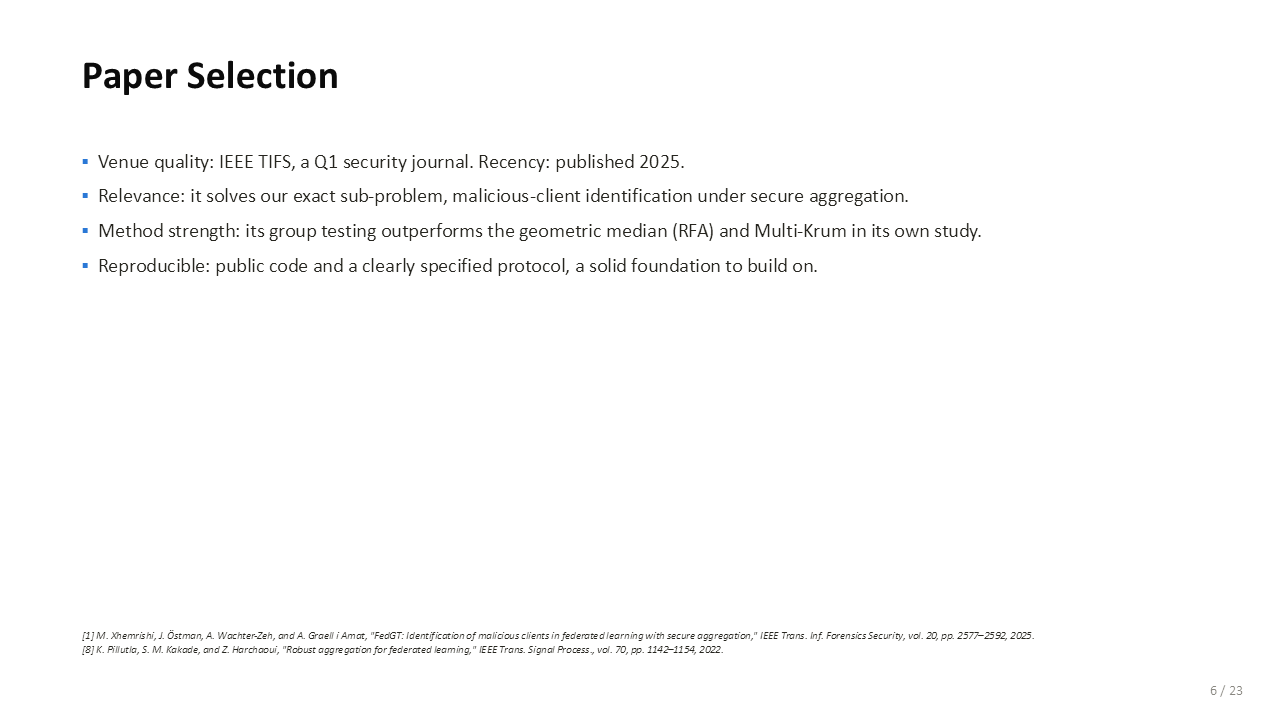
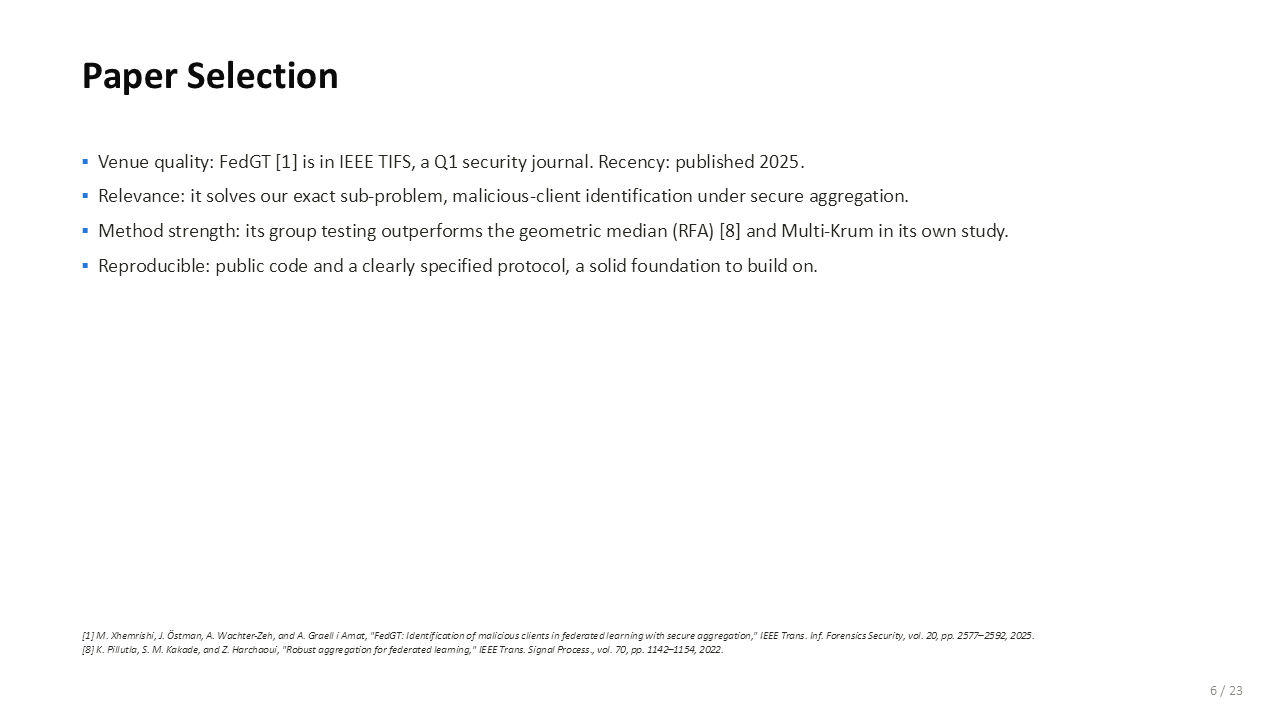
Deck: add in-text [n] citation markers on every slide that carries a reference
Each cited source now appears as a bracketed [n] within a sentence on its slide,
matching the full-form reference in that slide's footnote (verified per-slide).

Changed region(s): [[0.1562, 0.2139, 0.625, 0.2444], [0.5625, 0.3056, 0.7812, 0.3361]]

diff --git a/experiments/build_combined_deck.py b/experiments/build_combined_deck.py
@@ -136,69 +136,69 @@ run(tb(s, 0.75, 6.35, 11.7, 0.4).text_frame.paragraphs[0],
 # ===================== PART I: METHOD PRESENTATION (1-15) =====================
 content("Introduction", [
     "Federated learning shares model updates, not raw data, yet **those updates still leak private training data**.",
-    "Secure aggregation hides updates behind masks, but its key exchange **breaks under a quantum computer** (harvest-now, decrypt-later).",
+    "Secure aggregation [2] hides updates behind masks, but its key exchange **breaks under a quantum computer** (harvest-now, decrypt-later).",
     "Every post-quantum fix today is **lattice-only, a monoculture**; and hiding updates also blinds the server to poisoned ones.",
     "Goal: one protocol that is **private, post-quantum with crypto diversity, and Byzantine-robust**.",
 ], cite=[2], page="1 / 22", bold=True)
 
 content("Background and Motivation", [
     "Secure aggregation = pairwise masks that cancel in the sum; the server sees only the aggregate, never an individual.",
-    "Quantum threat: Shor's algorithm breaks classical key exchange, and traffic recorded today is decryptable later.",
-    "Crypto diversity: NIST selected the code-based KEM HQC in 2025 to hedge a lattice break; that diversity has not reached FL.",
+    "Quantum threat: Shor's algorithm [4] breaks classical key exchange, and traffic recorded today is decryptable later.",
+    "Crypto diversity: NIST selected the code-based KEM HQC in 2025 [3] to hedge a lattice break; that diversity has not reached FL.",
     "Robustness tension: privacy hides exactly the per-client signal that poisoning defenses need.",
 ], cite=[3, 4], page="2 / 22")
 
 content("Related Work", [
-    "FedGT (IEEE TIFS, 2025) is the closest peer to our robustness mechanism.",
+    "FedGT [1] (IEEE TIFS, 2025) is the closest peer to our robustness mechanism.",
     "Idea: group clients into overlapping test groups; the server sees only group aggregates, so privacy is preserved.",
     "A statistical test flags groups that contain malicious clients; a decoder then identifies and removes the culprits.",
     "Borrowed from group testing: find a few defectives with far fewer pooled tests than testing everyone.",
 ], cite=[1], page="3 / 22")
 
 content("Methodology (Base Paper)", [
-    "An assignment matrix groups n clients into m overlapping groups (the parity-check structure of a code).",
+    "In FedGT [1], an assignment matrix groups n clients into m overlapping groups (the parity-check structure of a code).",
     "Each group is securely aggregated; a test on the group aggregate is positive if any member is malicious.",
     "A COMP / Neyman-Pearson decoder infers which clients are malicious from the group test results.",
     "Flagged clients are excluded; the remaining clean clients are aggregated into the global model.",
 ], cite=[1], page="4 / 22")
 
 content("Limitations", [
-    "Crypto: it treats secure aggregation as a black box, with **no post-quantum layer**, in a lattice-only field.",
+    "Crypto: FedGT [1] treats secure aggregation as a black box, with **no post-quantum layer**, in a lattice-only field.",
     "Cost: it needs a **server validation set** and per-round group testing over fixed overlapping groups.",
     "Single-round decode: it identifies attackers from **one round's tests**, using no information across rounds.",
     "Unexplained failure: it does not characterize **why ordinary robust aggregation breaks** once updates are hidden.",
 ], cite=[1], page="5 / 22", bold=True)
 
 content("Paper Selection", [
-    "Venue quality: IEEE TIFS, a Q1 security journal. Recency: published 2025.",
+    "Venue quality: FedGT [1] is in IEEE TIFS, a Q1 security journal. Recency: published 2025.",
     "Relevance: it solves our exact sub-problem, malicious-client identification under secure aggregation.",
-    "Method strength: its group testing outperforms the geometric median (RFA) and Multi-Krum in its own study.",
+    "Method strength: its group testing outperforms the geometric median (RFA) [8] and Multi-Krum in its own study.",
     "Reproducible: public code and a clearly specified protocol, a solid foundation to build on.",
 ], cite=[1, 8], page="6 / 22")
 
 content("Proposed Method", [
-    "Hide updates within clusters using a code-based (HQC) masking protocol: the server sees only cluster sums.",
-    "Run group testing across re-randomized clusters over rounds to identify attackers (CB-SAFE+).",
+    "Hide updates within clusters using a code-based (HQC) masking protocol [2]: the server sees only cluster sums.",
+    "Run group testing [1] across re-randomized clusters over rounds to identify attackers (CB-SAFE+).",
     "Confidentiality lives below the cluster boundary; robustness operates above it; post-quantum by construction.",
 ], lead="One framework that is private, post-quantum, and Byzantine-robust at the same time.",
     cite=[1, 2], page="7 / 22")
 
 content("Methodology (Ours): Masking", [
-    "We adopt Bonawitz-style double masking: pairwise masks cancel in the cluster sum, so individuals stay hidden.",
+    "We adopt Bonawitz-style double masking [2]: pairwise masks cancel in the cluster sum, so individuals stay hidden.",
     "Dropout resilience via Shamir secret sharing of the self-masks.",
     "Our change: masks are seeded from a KEM, so per-round traffic carries no cryptographic bytes at all.",
 ], cite=[2], page="8 / 22", fig="fig_masking.png")
 
 content("Methodology (Ours): Detection", [
-    "We adopt the core idea: identify malicious clients from group-level observations, never from individual updates.",
+    "We adopt the core idea from FedGT [1]: identify malicious clients from group-level observations, never from individual updates.",
     "The groups are the privacy-preserving cluster sums (the pools); a probe flags contaminated pools.",
     "Our change: tests repeat over re-randomized clusters and accumulate across rounds (temporal group testing).",
 ], cite=[1], page="9 / 22")
 
 content("Methodology (Ours): Cryptography", [
-    "We adopt HQC, the code-based KEM NIST selected in 2025, for post-quantum confidentiality.",
+    "We adopt HQC, the code-based KEM NIST selected in 2025 [3], for post-quantum confidentiality.",
     "Its security rests on syndrome decoding of quasi-cyclic codes, not lattices: genuine cryptographic diversity.",
-    "Our change: HQC sits behind a KEM-agnostic interface, so ML-KEM swaps in with one configuration line.",
+    "Our change: HQC sits behind a KEM-agnostic interface, so ML-KEM [9] swaps in with one configuration line.",
 ], cite=[3, 9], page="10 / 22")
 
 content("Methodology (Ours): Integration", [
@@ -207,10 +207,10 @@ content("Methodology (Ours): Integration", [
     "Net design: privacy below the cluster boundary, robustness above it, code-based crypto throughout.",
     "On top we add our own pieces: the laundering theorem and a server root-loss probe.",
 ], lead="Masking + group testing + a code-based KEM become one coherent framework.",
-    cite=[1, 2], page="11 / 22")
+    cite=[1, 2, 3], page="11 / 22")
 
 content("Comparison", [
-    "Crypto: FedGT is crypto-agnostic \u2192 **CB-SAFE is code-based post-quantum**.",
+    "Crypto: FedGT [1] is crypto-agnostic \u2192 **CB-SAFE is code-based post-quantum**.",
     "Detection: FedGT uses single-round COMP + a validation set \u2192 **CB-SAFE uses temporal accumulation + a root-loss probe**.",
     "Theory: FedGT gives no failure model \u2192 **CB-SAFE proves the laundering boundary**.",
     "Results: accuracy ties FedGT with **fewer false exclusions and ~4\u00d7 lower cost**.",
@@ -219,12 +219,12 @@ content("Comparison", [
 content("Contributions", [
     "**First code-based post-quantum secure aggregation** for FL: cryptographic diversity beyond lattices.",
     "The **laundering theorem**: at \u03b3*=2c/m\u22121 a poisoned cluster mean is magnitude-invisible, explaining why robust rules fail.",
-    "**Temporal group testing** over re-randomized clusters with a root-loss probe: identifies attackers the server never sees.",
+    "**Temporal group testing** over re-randomized clusters (extending FedGT [1]) with a root-loss probe [5]: identifies attackers the server never sees.",
     "A **trust-free variant** that needs no root dataset, a capability FedGT does not offer.",
 ], cite=[1, 5], page="13 / 22", fig="fig_launder_geo.png", bold=True)
 
 content("Selection Criteria", [
-    "Venue and recency: the basis paper is Q1 (IEEE TIFS), 2025; supporting sources are top-tier (ACM CCS, NIST).",
+    "Venue and recency: the basis paper [1] is Q1 (IEEE TIFS), 2025; supporting sources are top-tier (ACM CCS [2], NIST [3]).",
     "Relevance: every borrowed idea maps directly onto a component of our exact problem.",
     "Method strength: we match SOTA (FedGT) on robustness at ~4\u00d7 lower cost, add PQC, and prove the failure mechanism.",
     "Breadth and rigor: validated on four datasets and two modalities, multiple seeds, with significance testing.",
@@ -240,48 +240,48 @@ content("Summary", [
 
 # ===================== PART II: FULL-PAPER WALKTHROUGH (16-22) =====================
 content("System Architecture", [],
-    lead="One training round: confidentiality within clusters, temporal group testing over re-randomized clusters, robust aggregation.",
+    lead="One training round: confidentiality within clusters [2], temporal group testing over re-randomized clusters [1], robust aggregation.",
     cite=[1, 2], page="16 / 22",
     fig_center=("fig_architecture.png", 2.45, 3.95))
 
 content("Experimental Setup", [
     "Images: CIFAR-10, FashionMNIST, EMNIST-balanced (47 classes). Tabular: Edge-IIoTset (IoT intrusion).",
     "Non-IID split via a Dirichlet(0.5) partition; 30 communication rounds; clusters of size c = 3.",
-    "Attacks: sign-flip (laundering), label-flip, backdoor. Baselines: mean, trimmed, median, Krum, Bulyan, RFA, FLTrust, FedGT.",
+    "Attacks: sign-flip (laundering), label-flip, backdoor. Baselines: mean, trimmed, median [6], Krum, Bulyan, RFA, FLTrust, FedGT [1].",
 ], cite=[1, 6], page="17 / 22", bullet_w=7.6, fig="shot_dirichlet_fig.png")
 
 content("Results: Robustness", [
-    "Under sign-flip at f \u2265 0.2 every coordinate-wise rule collapses to chance; CB-SAFE+ holds and ties FedGT.",
+    "Under sign-flip at f \u2265 0.2 every coordinate-wise rule collapses to chance; CB-SAFE+ holds and ties FedGT [1].",
 ], lead="Sign-flip test accuracy across four datasets (from the paper, Table V).",
     cite=[1], page="18 / 22",
     fig_center=("shot_signflip_table.png", 2.55, 3.55))
 
 content("Results: Training Dynamics", [],
-    lead="Test accuracy vs. round for eight rules, over three datasets (rows) and three malicious fractions (columns); "
+    lead="Test accuracy vs. round for eight rules including FedGT [1], over three datasets (rows) and three malicious fractions (columns); "
          "CB-SAFE+ tracks the clean baseline while the others diverge (from the paper, Fig. 7).",
     cite=[1], fig_center=("shot_dynamics_fig.png", 2.15, 4.28))
 
 content("Results: Detection", [
-    "Malicious and honest suspicion separate within a few rounds; attackers are named from group-level observations alone.",
+    "Malicious and honest suspicion separate within a few rounds; attackers are named from group-level observations alone, following the group-testing idea of FedGT [1].",
 ], lead="Temporal suspicion separation (from the paper, Fig. 8).",
     cite=[1], page="19 / 22",
     fig_center=("shot_suspicion_fig.png", 2.75, 3.4))
 
 content("Results: Generalization", [
     "Label-flip is milder: no coordinate-wise rule collapses, which isolates laundering as the cause of the sign-flip failures.",
-], lead="Label-flip test accuracy (from the paper, Table VI); CB-SAFE+ matches FedGT and leads at the hardest setting (f=0.3).",
+], lead="Label-flip test accuracy (from the paper, Table VI); CB-SAFE+ matches FedGT [1] and leads at the hardest setting (f=0.3).",
     cite=[1], page="20 / 22",
     fig_center=("shot_labelflip_table.png", 2.55, 3.5))
 
 content("Results: Efficiency", [
-    "Code-based (HQC) confidentiality gives crypto diversity beyond lattices; ML-KEM swaps in unchanged.",
+    "Code-based (HQC [3]) confidentiality gives crypto diversity beyond lattices; ML-KEM [9] swaps in unchanged.",
     "One-time setup is paid once and stays under 0.03% of total traffic; per-round bytes are KEM-independent.",
 ], lead="Measured per-client overhead (from the paper, Table II).",
     cite=[3, 9], page="21 / 22", bullet_w=11.9,
     fig_center=("shot_overhead_table.png", 3.35, 3.2))
 
 content("Conclusion", [
-    "CB-SAFE unifies code-based PQ secure aggregation with temporal group-testing robustness in one protocol.",
+    "CB-SAFE unifies code-based PQ secure aggregation [2], [3] with temporal group-testing robustness [1] in one protocol.",
     "It ties the state of the art (FedGT) on robustness and detection, at lower cost, and adds crypto diversity plus a failure theory.",
     "Limitations: update authentication is out of the code-based scope; EMNIST detection uses a single seed.",
     "Future work: code-based signatures for authentication, larger client populations, and adaptive attackers.",
